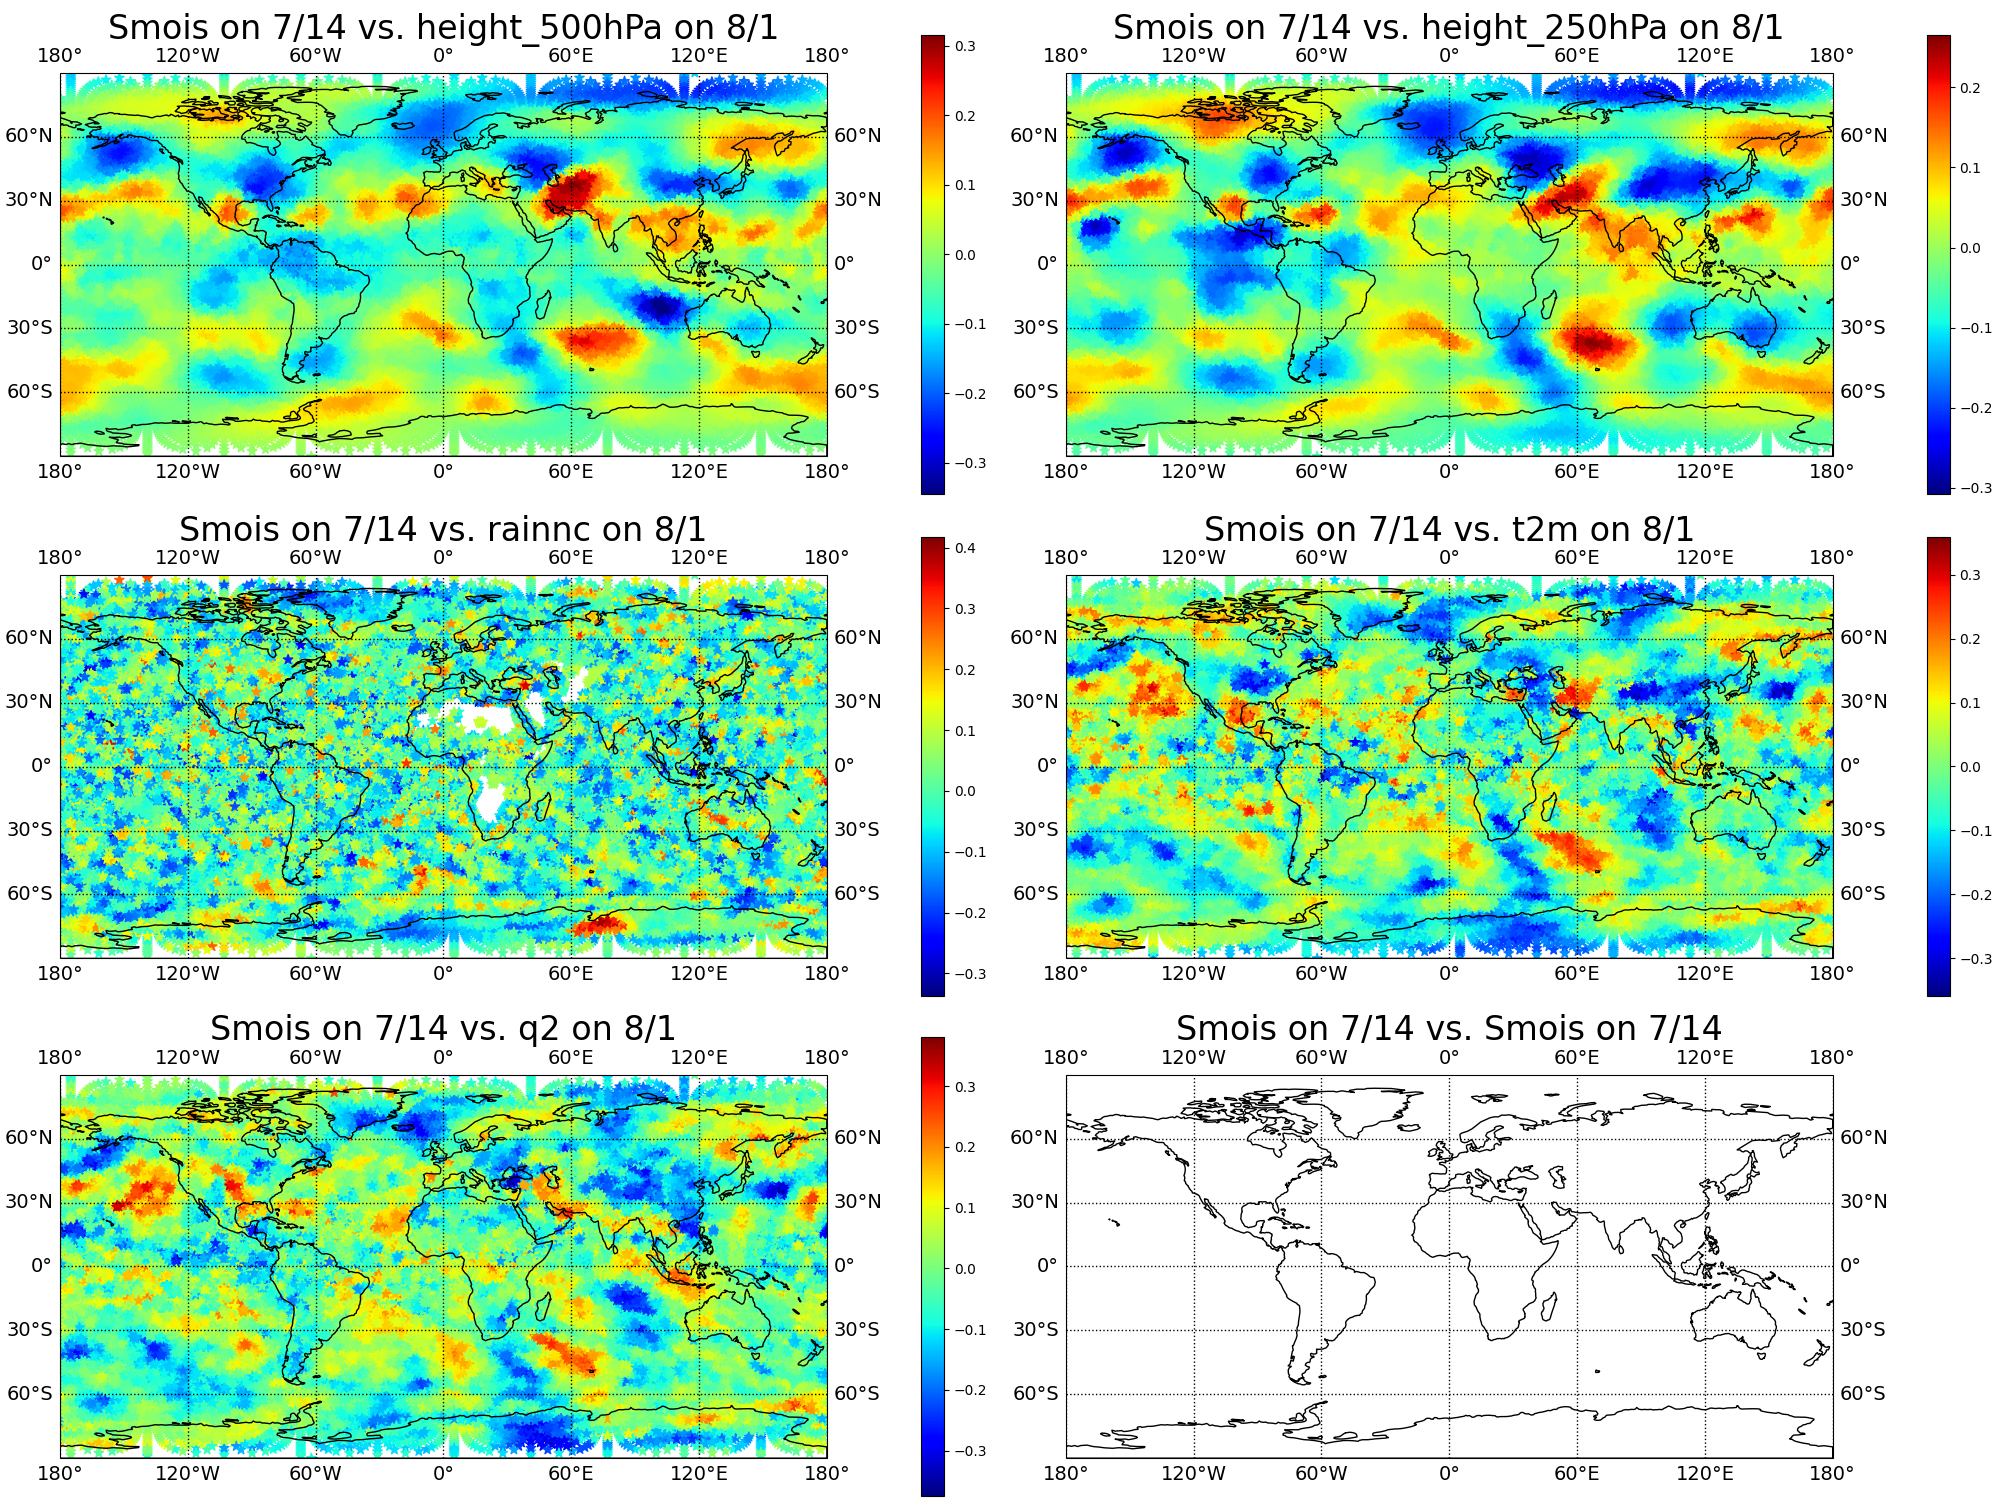
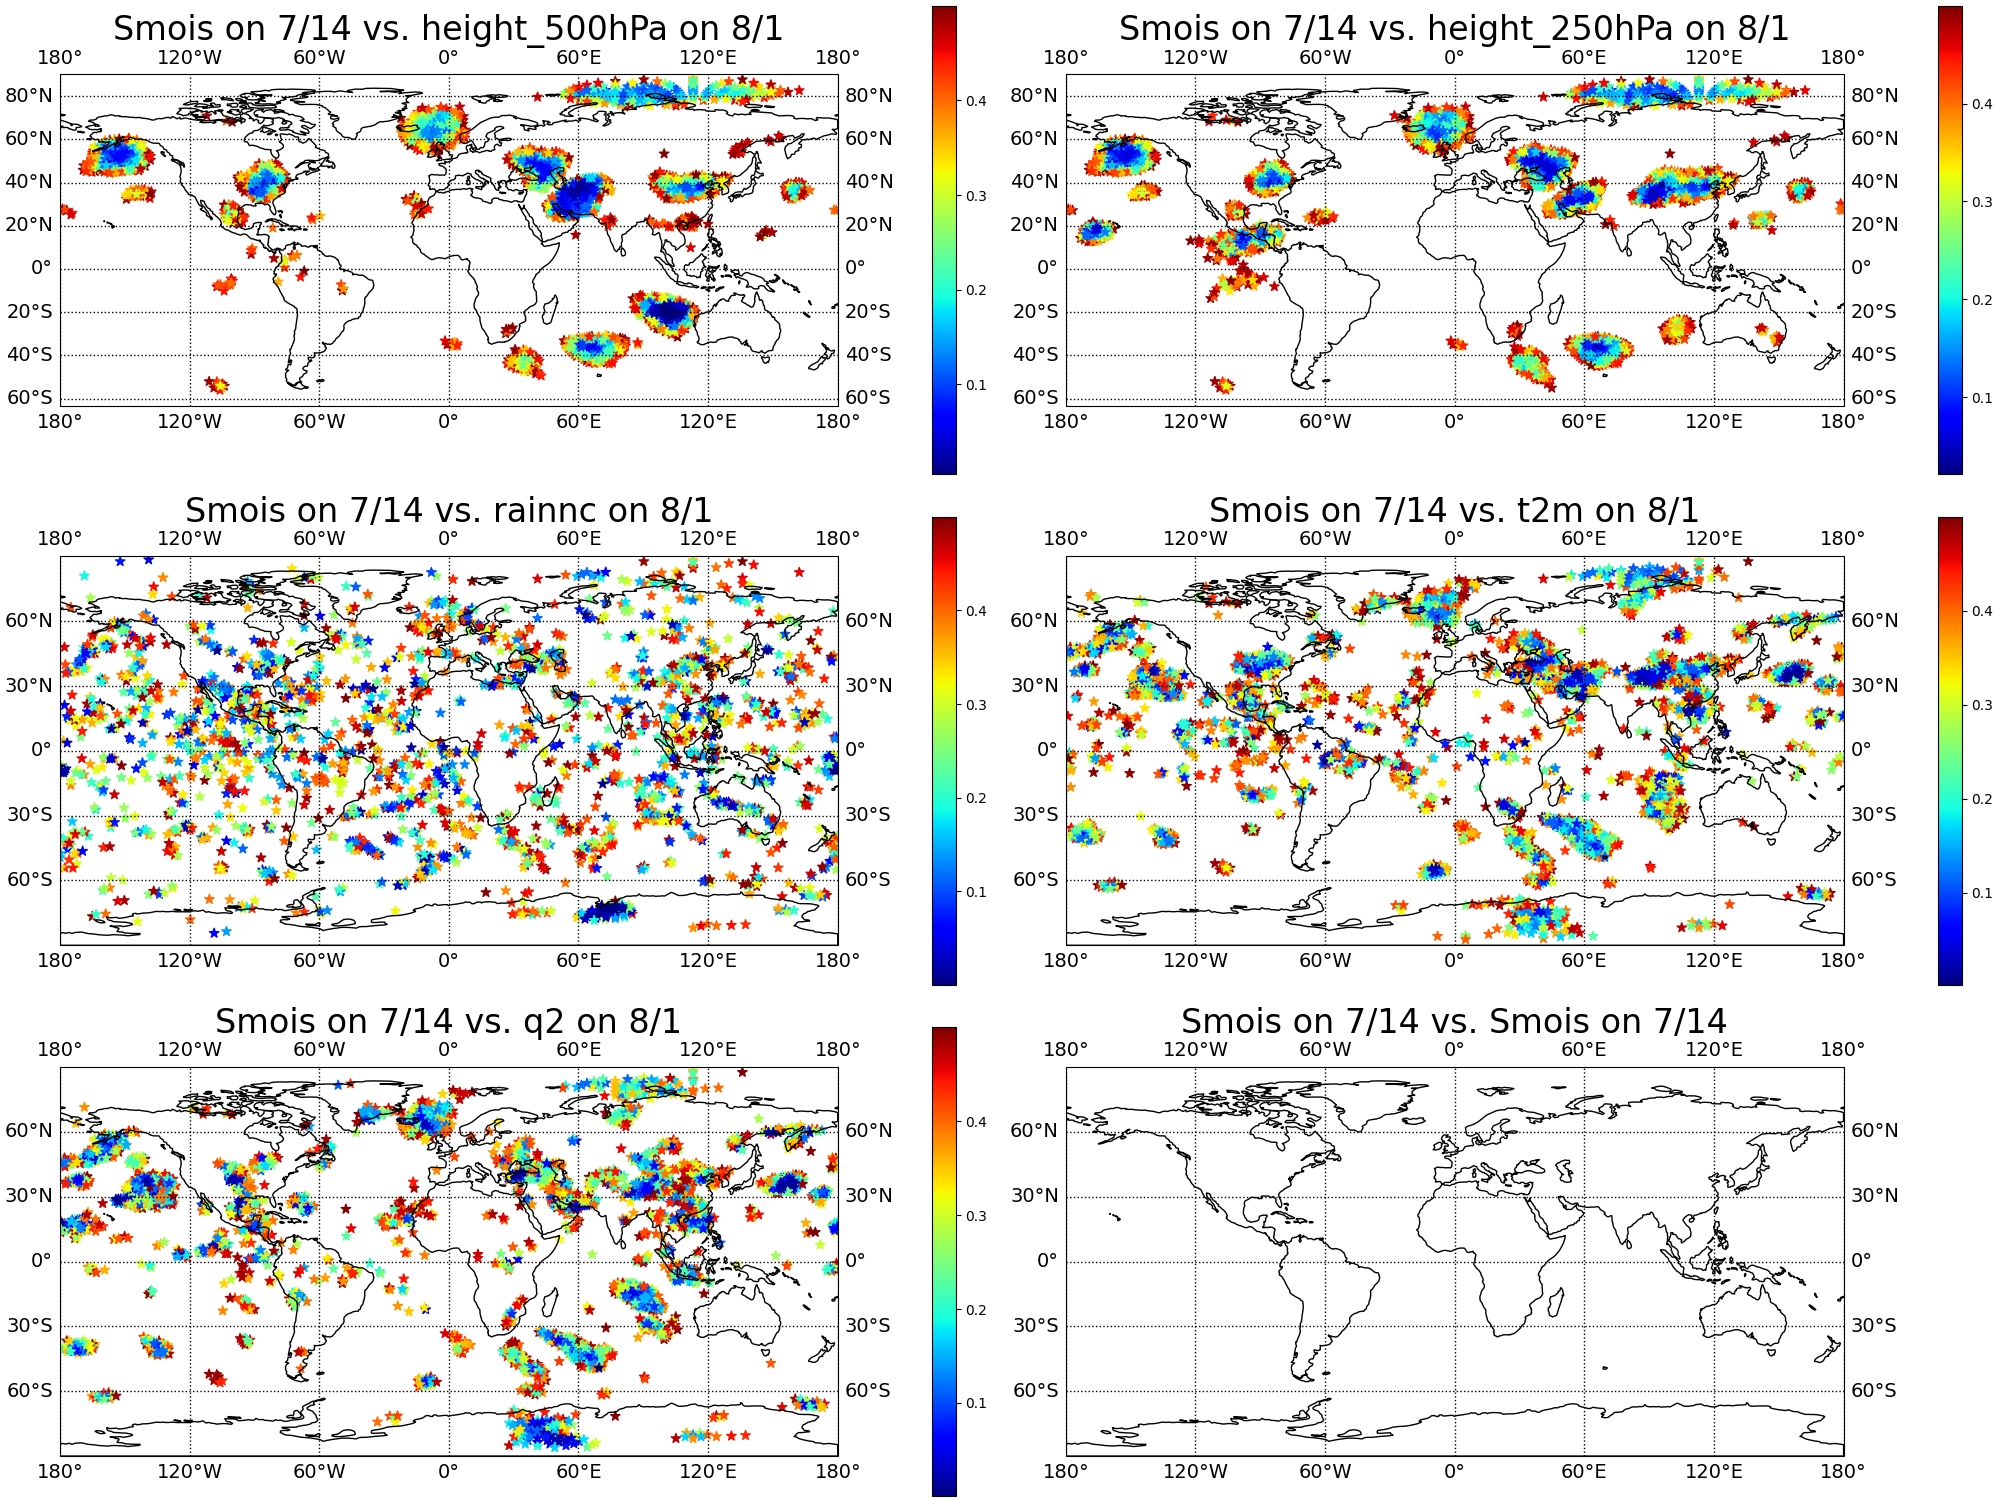
mask out nan values from correlations in rainnc

diff --git a/plot_glace.py b/plot_glace.py
@@ -16,15 +16,12 @@ import math
 ncells=40962
 response_variables=['height_500hPa','height_250hPa','rainnc','t2m','q2','']
 response_variables=np.reshape(response_variables,(3,2))
+response_variables2=['height_500hPa','height_250hPa','rainnc','t2m','q2','']
 
 #script
 esa_dict=pickle.load(open('ESA.pkl','rb'))
-correlations=esa_dict['correlations']
-print(np.shape(correlations)) #40962*5
-
-for i in range(40962):
-    if(((correlations[2,i])>1) or (correlations[2,1]<-1) or math.isinf(correlations[2,1]) or np.isnan(correlations[2,1])):
-        print("cell #"+str(i))
+correlations=esa_dict['p-values'] #edited to be p-values
+flag_keep=esa_dict['flag_keep'] #NOTE: have not applied the flag yet to correlations! nan still replaced with 0!
 
 #plotting
 fname='/fs/ess/PAS2635/Generalized_Predictability_MPAS/120km_uniform/history.2025-10-01_06.00.00.nc'
@@ -47,63 +44,52 @@ for i in range(3):
         if (i==2) and (j==1):
             ax.set_title('Smois on 7/14 vs. Smois on 7/14',fontsize=24)
 
-sc=axs[0,0].scatter(lonCell,latCell,c=correlations[0],\
+pvalue_mask=correlations[0]<=0.5
+lonCell1=lonCell[pvalue_mask]
+latCell1=latCell[pvalue_mask]
+correlations0=correlations[0][pvalue_mask]
+sc=axs[0,0].scatter(lonCell1,latCell1,c=correlations0,\
                     cmap='jet',s=50,marker='*',transform=ccrs.PlateCarree())
 fig.colorbar(sc,ax=axs[0,0])
-sc=axs[0,1].scatter(lonCell,latCell,c=correlations[1],\
+pvalue_mask=correlations[1]<=0.5
+lonCell2=lonCell[pvalue_mask]
+latCell2=latCell[pvalue_mask]
+correlations1=correlations[1][pvalue_mask]
+sc=axs[0,1].scatter(lonCell2,latCell2,c=correlations1,\
                  cmap='jet',s=50,marker='*',transform=ccrs.PlateCarree())
 fig.colorbar(sc,ax=axs[0,1])
-sc=axs[1,0].scatter(lonCell,latCell,c=correlations[2],\
+lonCell3=lonCell[flag_keep]
+latCell3=latCell[flag_keep]
+correlations2=correlations[2][flag_keep]
+pvalue_mask=correlations[2]<=0.5
+lonCell3=lonCell[pvalue_mask]
+latCell3=latCell[pvalue_mask]
+correlations2=correlations[2][pvalue_mask]
+sc=axs[1,0].scatter(lonCell3,latCell3,c=correlations2,\
                  cmap='jet',s=50,marker='*',transform=ccrs.PlateCarree())
 fig.colorbar(sc,ax=axs[1,0])
-sc=axs[1,1].scatter(lonCell,latCell,c=correlations[3],\
+pvalue_mask=correlations[3]<=0.5
+lonCell4=lonCell[pvalue_mask]
+latCell4=latCell[pvalue_mask]
+correlations3=correlations[3][pvalue_mask]
+sc=axs[1,1].scatter(lonCell4,latCell4,c=correlations3,\
                  cmap='jet',s=50,marker='*',transform=ccrs.PlateCarree())
 fig.colorbar(sc,ax=axs[1,1])
-sc=axs[2,0].scatter(lonCell,latCell,c=correlations[4],\
+pvalue_mask=correlations[4]<=0.5
+lonCell5=lonCell[pvalue_mask]
+latCell5=latCell[pvalue_mask]
+correlations4=correlations[4][pvalue_mask]
+sc=axs[2,0].scatter(lonCell5,latCell5,c=correlations4,\
                  cmap='jet',s=50,marker='*',transform=ccrs.PlateCarree())
 fig.colorbar(sc,ax=axs[2,0])
 
-'''
-ps=np.zeros((ncells,5))
-for i in range(5):
-        for k in range(40962):
-            r=correlations[i,k]
-            if (math.isinf(r)):
-                r=0
-            t_stat=r*np.sqrt((100-2)/(1-r**2))
-            ps[k,i]=2*(1-scipy.stats.t.cdf(np.abs(t_stat),df=100-2))
-new_ps=scipy.stats.false_discovery_control(ps,method='by')
 number_of_statistically_significant=np.zeros((5))
 for i in range(5):
-    number_of_statistically_significant[i]=np.sum(new_ps[:,i]<=0.05)
-    print(number_of_statistically_significant)
-'''
-
-number_of_statistically_significant=np.zeros((5))
-for i in range(5):
-    number_of_statistically_significant[i]=np.sum(np.abs(correlations[i,:])>=0.2)
+    number_of_statistically_significant[i]=np.sum(correlations[i,:]<=0.05)
+    print("for variable " + response_variables2[i] + ", there are this many significant cells:")
+    print(number_of_statistically_significant[i])
     print(number_of_statistically_significant[i]/40962)
-statistically_significant_mask=np.abs(correlations)<0.2
-correlations=np.where(statistically_significant_mask,correlations,0)
 
 plt.savefig('glace_plot_7_20_26.png')
 
-'''
-sc=axs[0,0].scatter(lonCell,latCell,c=correlations[0],\
-                    cmap='jet',s=50,marker='*',transform=ccrs.PlateCarree())
-fig.colorbar(sc,ax=axs[0,0])
-sc=axs[0,1].scatter(lonCell,latCell,c=correlations[1],\
-                 cmap='jet',s=50,marker='*',transform=ccrs.PlateCarree())
-fig.colorbar(sc,ax=axs[0,1])
-sc=axs[1,0].scatter(lonCell,latCell,c=correlations[2],\
-                 cmap='jet',s=50,marker='*',transform=ccrs.PlateCarree())
-fig.colorbar(sc,ax=axs[1,0])
-sc=axs[1,1].scatter(lonCell,latCell,c=correlations[3],\
-                 cmap='jet',s=50,marker='*',transform=ccrs.PlateCarree())
-fig.colorbar(sc,ax=axs[1,1])
-sc=axs[2,0].scatter(lonCell,latCell,c=correlations[4],\
-                 cmap='jet',s=50,marker='*',transform=ccrs.PlateCarree())
-fig.colorbar(sc,ax=axs[2,0])
-plt.savefig('glace_plot_7_20_26_only_significant.png')
-'''
 plt.close()

diff --git a/glace_esa.py b/glace_esa.py
@@ -12,6 +12,7 @@ import numpy as np
 from netCDF4 import Dataset
 from datetime import datetime, timedelta
 from scipy.stats import beta, false_discovery_control
+import math
 
 #settings
 number_of_ensembles=100
@@ -85,8 +86,6 @@ def cor(X1d,R2d):
     std_R = np.std( R2d, ddof=1, axis=-1 )
     correlation = covariance / ( std_X * std_R)
 
-    print(np.shape(correlation))#check shape to be 40962
-
     return correlation
 
 #input: 1d array of size (40000) -> correlations
@@ -128,12 +127,7 @@ for i in range(number_of_ensembles):
 glaced_smois_array=np.empty(number_of_ensembles,dtype='object')
 for i in range(number_of_ensembles):
     glaced_smois_array[i]=smois_array[i,:][glace_mask]
-    temp_not_zeroed=np.mean(glaced_smois_array[i])
-    print(temp_not_zeroed) #should be a diffent, smaller value
     glaced_smois_array[i]=np.mean(glaced_smois_array[i][glaced_smois_array[i]!=0])
-    print(glaced_smois_array[i])
-#need also to pass in a 100 element array of a single cell 40962 times for each time step
-#you'll pass glaced_smois_array into your cor function
 
 #check the following 4 lines for accuracy
 #constructing the atmospheric state array for the entire globe on aug 1 (100 arrays of 40962 cells each)
@@ -145,21 +139,33 @@ for i in range(len(response_variables)):
     global_arrays_2d=global_arrays[i,:,:]
     transposed_global_arrays=global_arrays_2d.T
     correlations[i,:]=cor(glaced_smois_array,transposed_global_arrays)
-    #pvalues=pvalue(correlations,number_of_ensembles) #creates an array of 40962 pvalues for a specified time/date
-    #NOTE: pvalues throw an error because some correlations are outside the interval [-1,1]
+flag_keep = np.invert( np.isnan( correlations[2,:] ) ) #keep this flag, then apply it to the correlations array
+correlations[2,:] = [0 if isinstance(x, float) and math.isnan(x) else x for x in correlations[2,:]] #help from ChatGPT, replaces all nan with 0
+pvalues=pvalue(correlations,number_of_ensembles) #creates an array of 40962 pvalues for a specified time/date
 
 for i in range(len(response_variables)):
     for j in range(ncells):
         print("correlation for "+response_variables[i]+", cell #"+str(j)+":")
         print(correlations[i,j])
-        #print("p-value:")
-        #print(pvalues[i,j])
+        print("p-value:")
+        print(pvalues[i,j])
+
+# Array corr_old contains NaNs
+
+# Flags indicating non-NaN values
+
+# Array of non-Nan Values
+#correlations[2,:] = correlations[2,:][ flag_keep  ]
+#NOTE: don't apply the flag just yet---apply before plotting
+
+#now, the rainnc correlations have shape 39281 instead of 40962
 
 esa_dict={}
+esa_dict['flag_keep']=flag_keep
 esa_dict['smois']=glaced_smois_array
 esa_dict['glace_mask']=glace_mask
 esa_dict['correlations']=correlations
-esa_dict['p-values']=pvalues #right now is just an array of zeros size (5,40962)
+esa_dict['p-values']=pvalues
 for i in range(len(response_variables)):
     esa_dict[response_variables[i]]=(global_arrays[i,:,:]) #each with size (100,40962)
 pickle.dump(esa_dict,open('ESA.pkl','wb'))
